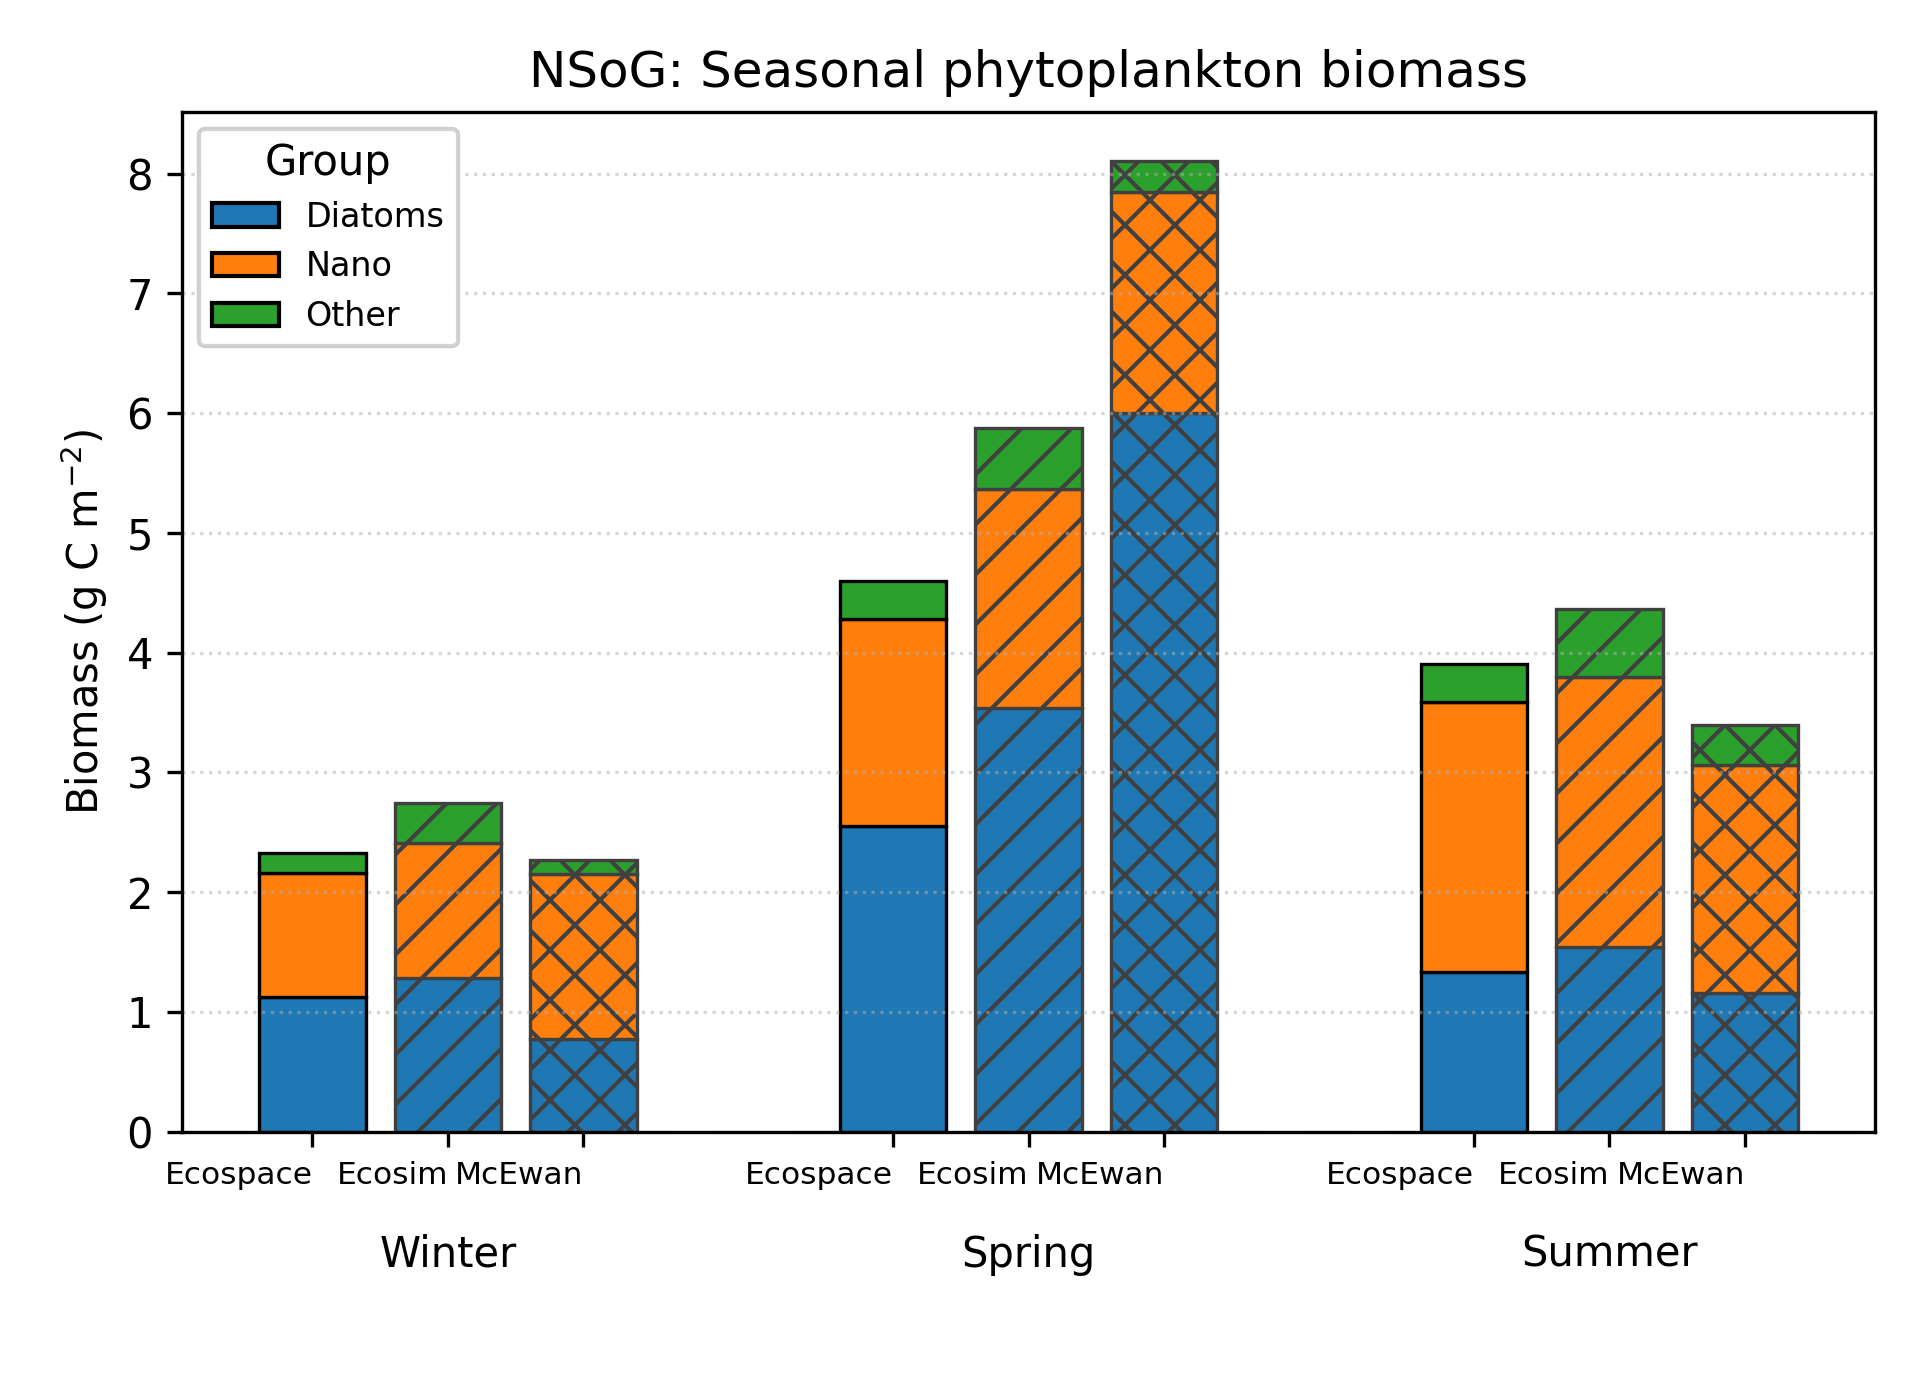
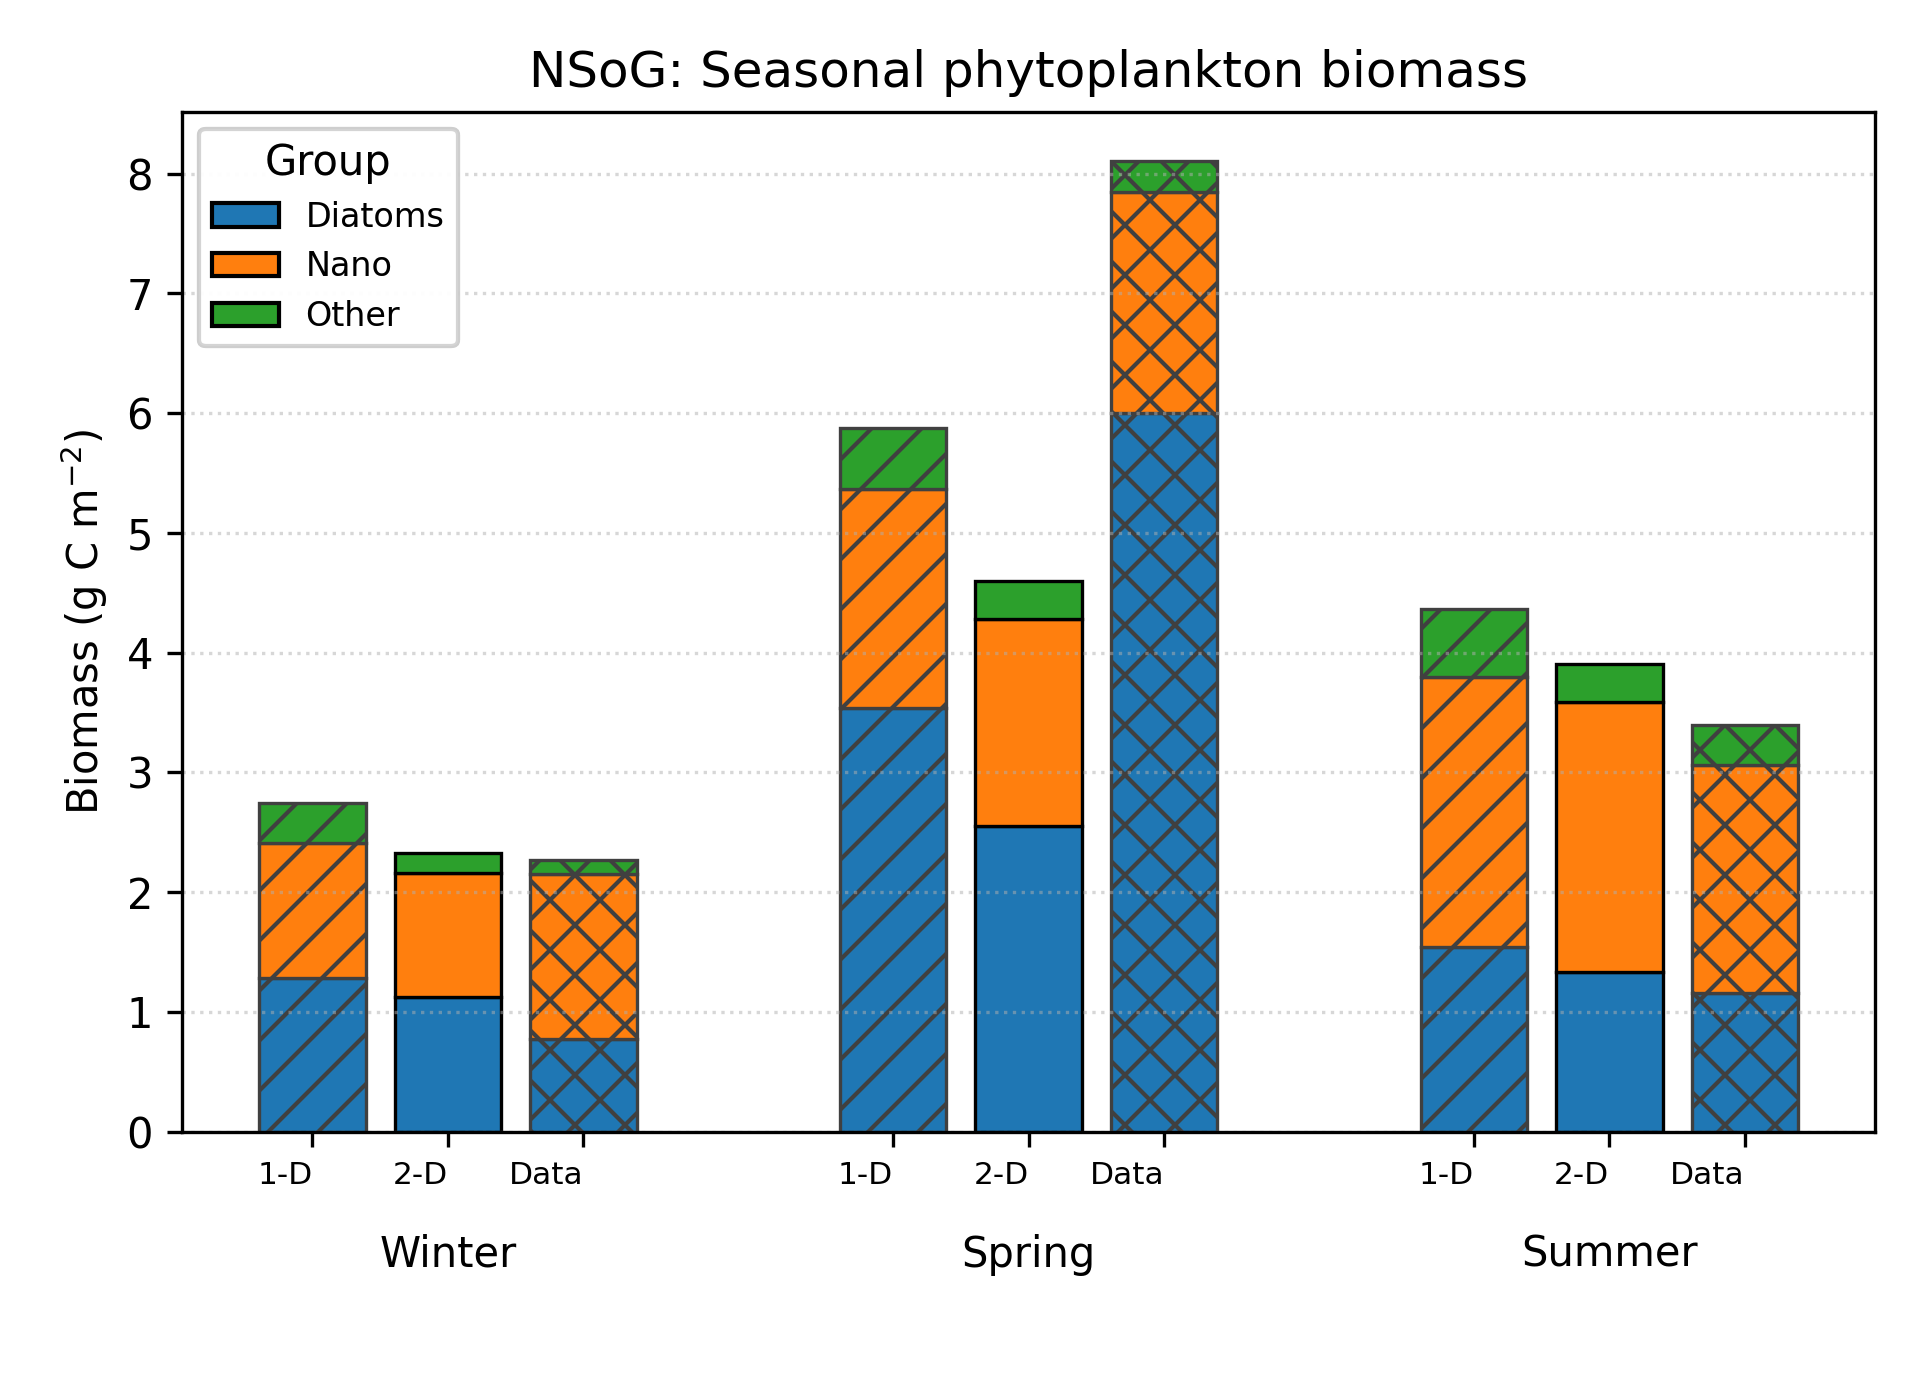
revision to figure

diff --git a/scripts/PublicationScripts/ecospace_eval_2a_mcewan_phyto_seas.py b/scripts/PublicationScripts/ecospace_eval_2a_mcewan_phyto_seas.py
@@ -284,7 +284,7 @@ def compute_ecosim_group_seasonal() -> pd.DataFrame:
             rows.append({
                 "Group": grp,
                 "Season": season,
-                "Source": "Ecosim",
+                "Source": "1-D",
                 "Mean": float(val),
             })
 
@@ -293,7 +293,7 @@ def compute_ecosim_group_seasonal() -> pd.DataFrame:
 
 def ecospace_stats_to_long(df_model: pd.DataFrame) -> pd.DataFrame:
     out = df_model.rename(columns={"ModelMean": "Mean"}).copy()
-    out["Source"] = "Ecospace"
+    out["Source"] = "2-D"
     return out[["Group", "Season", "Source", "Mean"]]
 
 
@@ -305,7 +305,7 @@ def obs_seasonal_to_long(obs_dict, domain_key: str) -> pd.DataFrame:
             rows.append({
                 "Group": grp,
                 "Season": season,
-                "Source": "McEwan",
+                "Source": "Data",
                 "Mean": float(dom[grp][season]),
             })
     return pd.DataFrame(rows)
@@ -313,26 +313,26 @@ def obs_seasonal_to_long(obs_dict, domain_key: str) -> pd.DataFrame:
 
 def plot_stacked_three_source(df_long: pd.DataFrame, domain_label: str, out_png: str) -> None:
     groups = list(GROUP_MAP.keys())
-    sources = ["Ecospace", "Ecosim", "McEwan"]
+    sources = ["1-D", "2-D", "Data"]
 
     source_hatch = {
-        "Ecospace": "",
-        "Ecosim": "//",
-        "McEwan": "xx",
+        "1-D": "//",
+        "2-D": "",
+         "Data": "xx"
     }
 
     source_edge = {
-        "Ecospace": "black",
-        "Ecosim": "0.25",
-        "McEwan": "0.25",
+        "1-D": "0.25",
+        "2-D": "black",
+        "Data": "0.25",
     }
 
     bar_width = 0.22
     group_spacing = 1.2
     offsets = {
-        "Ecospace": -0.28,
-        "Ecosim":    0.00,
-        "McEwan":    0.28,
+        "1-D":  -0.28,
+        "2-D":  0.00,
+        "Data":    0.28,
     }
 
     centers = [i * group_spacing for i in range(len(SEASONS_ORDER))]
